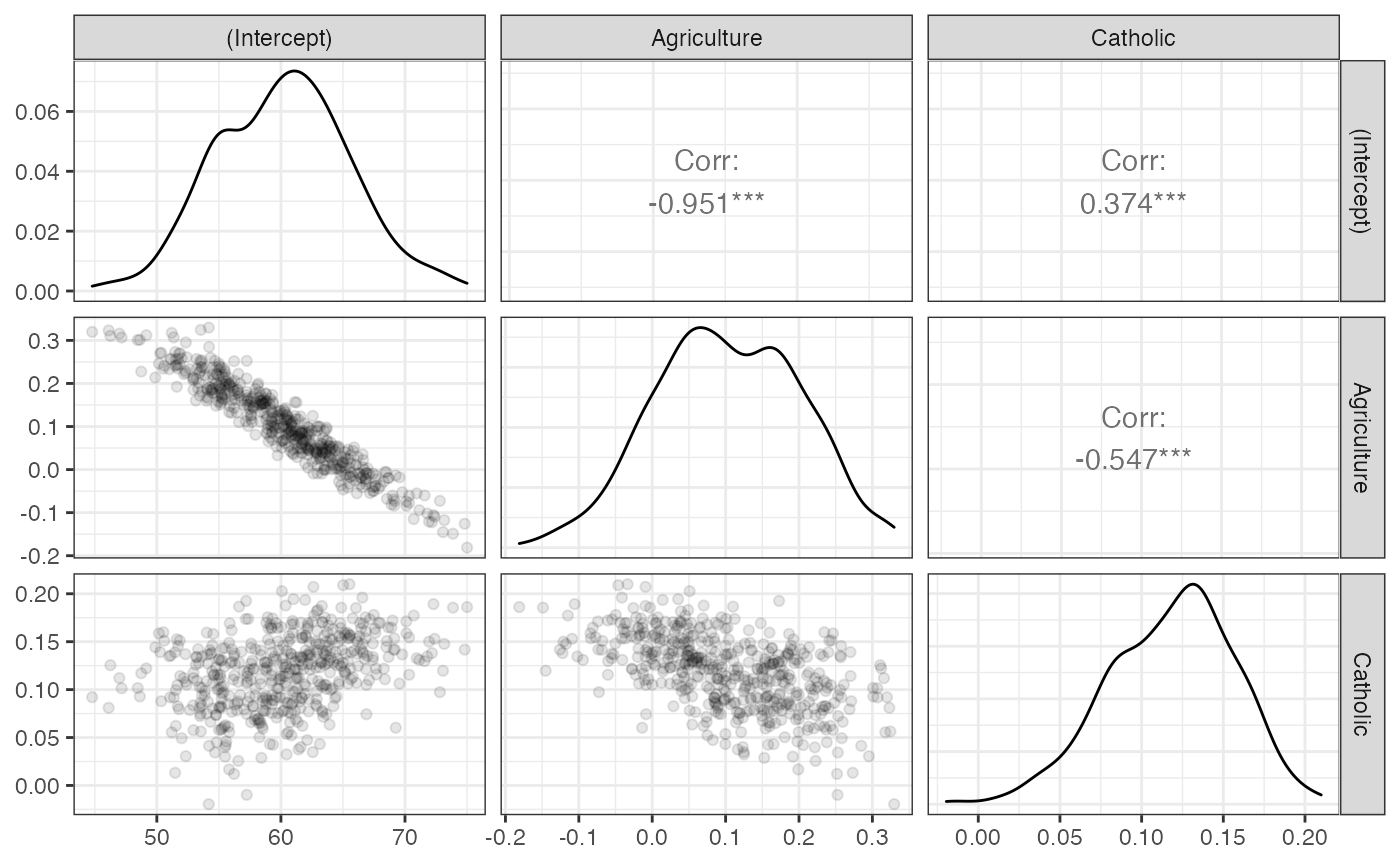
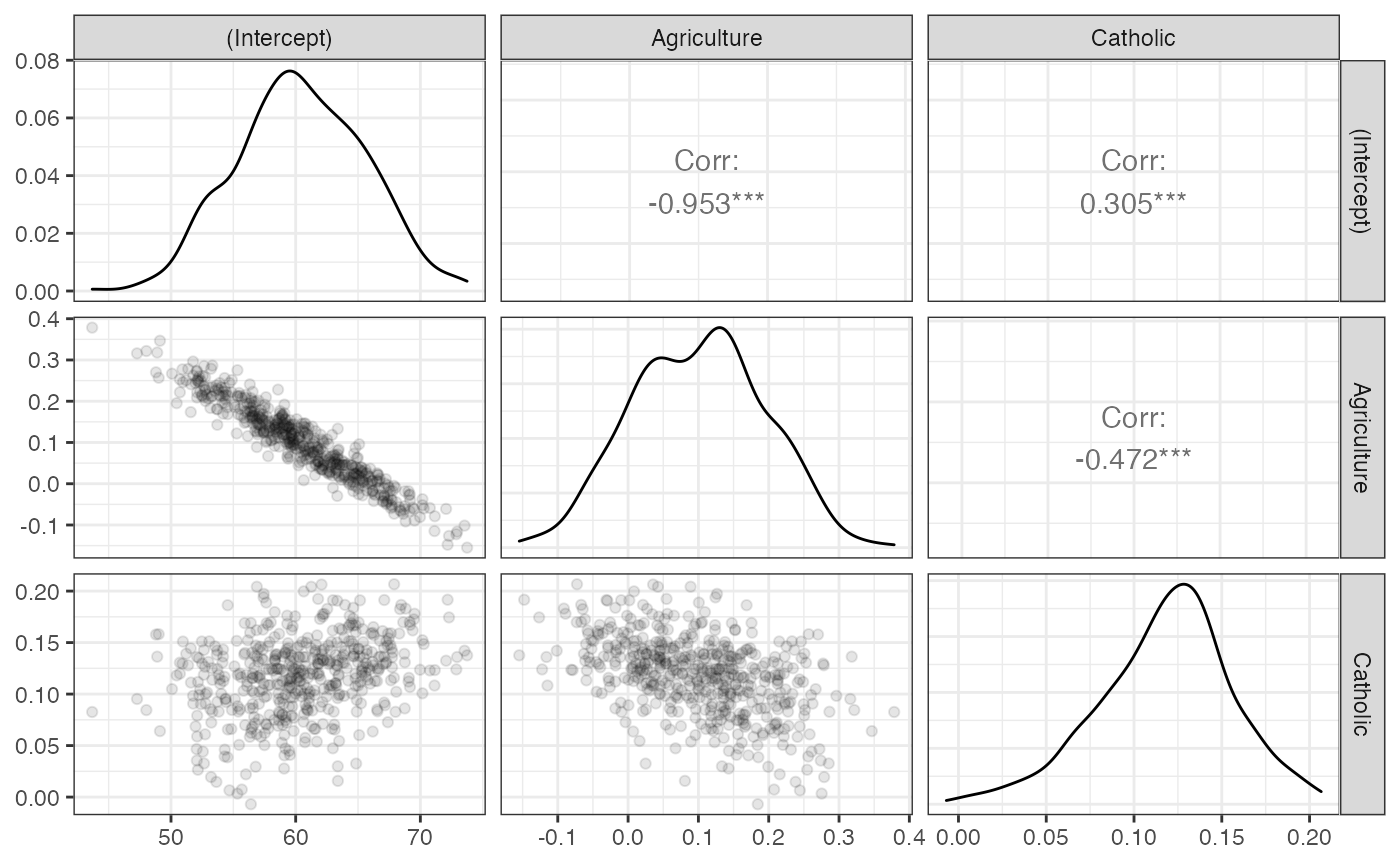
Deploying to gh-pages from  @ dd709c858b15e496c751726b52a727a49fcc6a29 🚀

diff --git a/r/estimatr/articles/estimatr-in-the-tidyverse.html b/r/estimatr/articles/estimatr-in-the-tidyverse.html
@@ -271,72 +271,72 @@
 <tr class="odd">
 <td align="left">1</td>
 <td align="left">(Intercept)</td>
-<td align="right">58.4262288</td>
-<td align="right">4.3109001</td>
-<td align="right">13.5531390</td>
+<td align="right">65.1995799</td>
+<td align="right">3.0401502</td>
+<td align="right">21.4461707</td>
 <td align="right">0.0000000</td>
-<td align="right">49.7381804</td>
-<td align="right">67.1142771</td>
+<td align="right">59.0725598</td>
+<td align="right">71.3266000</td>
 <td align="right">44</td>
 <td align="left">Fertility</td>
 </tr>
 <tr class="even">
 <td align="left">1</td>
 <td align="left">Catholic</td>
-<td align="right">0.0288156</td>
-<td align="right">0.0437699</td>
-<td align="right">0.6583431</td>
-<td align="right">0.5137479</td>
-<td align="right">-0.0593968</td>
-<td align="right">0.1170280</td>
+<td align="right">0.1116462</td>
+<td align="right">0.0211116</td>
+<td align="right">5.2883721</td>
+<td align="right">0.0000037</td>
+<td align="right">0.0690985</td>
+<td align="right">0.1541940</td>
 <td align="right">44</td>
 <td align="left">Fertility</td>
 </tr>
 <tr class="odd">
 <td align="left">1</td>
 <td align="left">Agriculture</td>
-<td align="right">0.1526514</td>
-<td align="right">0.0867470</td>
-<td align="right">1.7597310</td>
-<td align="right">0.0854048</td>
-<td align="right">-0.0221757</td>
-<td align="right">0.3274785</td>
+<td align="right">0.0328887</td>
+<td align="right">0.0512649</td>
+<td align="right">0.6415437</td>
+<td align="right">0.5244976</td>
+<td align="right">-0.0704289</td>
+<td align="right">0.1362062</td>
 <td align="right">44</td>
 <td align="left">Fertility</td>
 </tr>
 <tr class="even">
 <td align="left">2</td>
 <td align="left">(Intercept)</td>
-<td align="right">53.6074242</td>
-<td align="right">5.4551009</td>
-<td align="right">9.8270271</td>
+<td align="right">61.9458966</td>
+<td align="right">3.9351809</td>
+<td align="right">15.7415624</td>
 <td align="right">0.0000000</td>
-<td align="right">42.6133907</td>
-<td align="right">64.6014576</td>
+<td align="right">54.0150605</td>
+<td align="right">69.8767326</td>
 <td align="right">44</td>
 <td align="left">Fertility</td>
 </tr>
 <tr class="odd">
 <td align="left">2</td>
 <td align="left">Catholic</td>
-<td align="right">0.0828386</td>
-<td align="right">0.0436304</td>
-<td align="right">1.8986458</td>
-<td align="right">0.0641813</td>
-<td align="right">-0.0050926</td>
-<td align="right">0.1707699</td>
+<td align="right">0.1338941</td>
+<td align="right">0.0350851</td>
+<td align="right">3.8162687</td>
+<td align="right">0.0004198</td>
+<td align="right">0.0631847</td>
+<td align="right">0.2046034</td>
 <td align="right">44</td>
 <td align="left">Fertility</td>
 </tr>
 <tr class="even">
 <td align="left">2</td>
 <td align="left">Agriculture</td>
-<td align="right">0.2363091</td>
-<td align="right">0.0918034</td>
-<td align="right">2.5740792</td>
-<td align="right">0.0134944</td>
-<td align="right">0.0512916</td>
-<td align="right">0.4213267</td>
+<td align="right">0.0415225</td>
+<td align="right">0.0770786</td>
+<td align="right">0.5387037</td>
+<td align="right">0.5928066</td>
+<td align="right">-0.1138192</td>
+<td align="right">0.1968643</td>
 <td align="right">44</td>
 <td align="left">Fertility</td>
 </tr>
@@ -350,9 +350,9 @@
 <pre><code>## # A tibble: 3 x 2
 ##   term        boot_se
 ##   &lt;chr&gt;         &lt;dbl&gt;
-## 1 (Intercept)  5.32  
-## 2 Agriculture  0.0982
-## 3 Catholic     0.0385</code></pre>
+## 1 (Intercept)  5.10  
+## 2 Agriculture  0.0937
+## 3 Catholic     0.0379</code></pre>
 <div class="sourceCode" id="cb15"><pre class="downlit sourceCode r">
 <code class="sourceCode R"><span class="co"># To visualize the sampling distribution</span>
 

diff --git a/r/estimatr/articles/absorbing-fixed-effects.html b/r/estimatr/articles/absorbing-fixed-effects.html
@@ -190,10 +190,10 @@
   times <span class="op">=</span> <span class="fl">50</span>
 <span class="op">)</span></code></pre></div>
 <pre><code>## Unit: milliseconds
-##             expr       min        lq      mean    median        uq       max
-##  base + sandwich 167.00720 169.69276 178.73985 171.34771 173.45364 296.90845
-##        lm_robust  75.37821  77.14883  79.31483  78.86680  80.82901  88.86234
-##  lm_robust + fes  48.29365  49.27292  53.42243  50.19405  51.97310 191.04552
+##             expr       min        lq      mean    median        uq      max
+##  base + sandwich 169.80043 174.35135 197.81348 177.33121 182.03840 315.6185
+##        lm_robust  77.60344  79.76808  93.86619  82.62794  88.99216 177.5874
+##  lm_robust + fes  49.24776  50.55549  60.88237  52.22782  54.87375 189.2733
 ##  neval cld
 ##     50   c
 ##     50  b 
@@ -220,14 +220,14 @@
   times <span class="op">=</span> <span class="fl">50</span>
 <span class="op">)</span></code></pre></div>
 <pre><code>## Unit: milliseconds
-##             expr        min         lq       mean     median         uq
-##  base + sandwich 166.809424 170.101640 179.595286 172.419136 174.193360
-##        lm_robust  59.936086  61.587022  66.180179  63.239390  65.132275
-##  lm_robust + fes   7.673785   7.908556   8.843822   8.248139   8.749442
+##             expr        min         lq      mean     median         uq
+##  base + sandwich 170.896447 176.091773 196.66087 179.951493 196.487540
+##        lm_robust  61.377724  64.136487  79.19269  65.898266  69.418641
+##  lm_robust + fes   7.609897   8.105939  11.18140   8.651805   9.829149
 ##        max neval cld
-##  300.93270    50   c
-##  191.76568    50  b 
-##   13.57043    50 a</code></pre>
+##  321.85403    50   c
+##  233.80336    50  b 
+##   56.30224    50 a</code></pre>
 </div>
   </div>
 

diff --git a/r/estimatr/reference/starprep.html b/r/estimatr/reference/starprep.html
@@ -239,7 +239,7 @@ the preferred, robust statistics.</p>
           omit.stat <span class='op'>=</span> <span class='st'>"f"</span><span class='op'>)</span>
 </div><div class='output co'>#&gt; 
 #&gt; % Table created by stargazer v.5.2.2 by Marek Hlavac, Harvard University. E-mail: hlavac at fas.harvard.edu
-#&gt; % Date and time: Fri, May 14, 2021 - 23:23:30
+#&gt; % Date and time: Sat, May 15, 2021 - 23:23:34
 #&gt; \begin{table}[!htbp] \centering 
 #&gt;   \caption{} 
 #&gt;   \label{} 
@@ -279,7 +279,7 @@ the preferred, robust statistics.</p>
           omit.stat <span class='op'>=</span> <span class='st'>"f"</span><span class='op'>)</span>
 </div><div class='output co'>#&gt; 
 #&gt; % Table created by stargazer v.5.2.2 by Marek Hlavac, Harvard University. E-mail: hlavac at fas.harvard.edu
-#&gt; % Date and time: Fri, May 14, 2021 - 23:23:30
+#&gt; % Date and time: Sat, May 15, 2021 - 23:23:34
 #&gt; \begin{table}[!htbp] \centering 
 #&gt;   \caption{} 
 #&gt;   \label{} 
@@ -316,7 +316,7 @@ the preferred, robust statistics.</p>
           omit.stat <span class='op'>=</span> <span class='st'>"f"</span><span class='op'>)</span>
 </div><div class='output co'>#&gt; 
 #&gt; % Table created by stargazer v.5.2.2 by Marek Hlavac, Harvard University. E-mail: hlavac at fas.harvard.edu
-#&gt; % Date and time: Fri, May 14, 2021 - 23:23:30
+#&gt; % Date and time: Sat, May 15, 2021 - 23:23:34
 #&gt; \begin{table}[!htbp] \centering 
 #&gt;   \caption{} 
 #&gt;   \label{} 

diff --git a/r/estimatr/articles/regression-tables.html b/r/estimatr/articles/regression-tables.html
@@ -258,7 +258,7 @@
 <span class="va">fit</span> <span class="op">&lt;-</span> <span class="fu"><a href="../reference/lm_robust.html">lm_robust</a></span><span class="op">(</span><span class="va">mpg</span> <span class="op">~</span> <span class="va">disp</span>, data <span class="op">=</span> <span class="va">mtcars</span><span class="op">)</span>
 <span class="va">fit</span> <span class="op">%&gt;%</span> <span class="va">tidy</span> <span class="op">%&gt;%</span> <span class="fu"><a href="https://rdrr.io/pkg/xtable/man/xtable.html">xtable</a></span><span class="op">(</span><span class="op">)</span></code></pre></div>
 <pre><code>## % latex table generated in R 4.0.5 by xtable 1.8-4 package
-## % Fri May 14 23:24:34 2021
+## % Sat May 15 23:24:45 2021
 ## \begin{table}[ht]
 ## \centering
 ## \begin{tabular}{rlrrrrrrrl}
